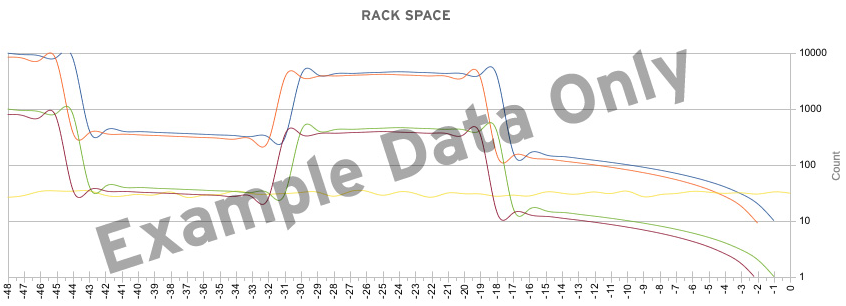
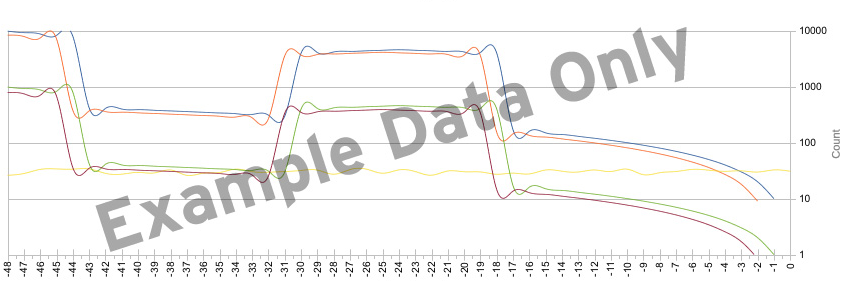
Dashboard placeholder page tweaks
- Graph table sizing -- make more compact to relate numbers to graphs better.
- Use the generic currency unit symbol for cost per hour.
- Add radiobuttons for dashboard mode on top
- Delete Rack Space label on the image
- Add a Statistics section with foobar graphs

Changed region(s): [[0.0, 0.0282, 1.0, 0.9577]]

diff --git a/src/app/stylesheets/aggregator.scss b/src/app/stylesheets/aggregator.scss
@@ -218,6 +218,8 @@ h5 { font-size: 80%; }
 .placeholder { margin-bottom: 2em; }
 .disabled { opacity: 0.6; }
 .nomargin { margin: 0; }
+.nowrap { white-space: nowrap; }
+.gap { margin-bottom: 4em; }
 
 div,section,fieldset {
   display: block;
@@ -257,7 +259,7 @@ table {
     }
   }
   td {
-    padding: 4px;
+    padding: 2px;
     vertical-align: top;
     min-height: 16px;
   }
@@ -274,7 +276,12 @@ table {
     }
     td {
       color: #888;
+      &.graph {
+        width: 102px;
+        height: 4em;
+      }
       .percentBlock {
+        display: block;
         border:1px solid #909090;
         padding: 0;
         width:100px;
@@ -291,13 +298,13 @@ table {
         background: url(/images/arrow-min.png) no-repeat top center;
         float:left;
         padding-top:5px;
-        width:50%;
+        width:50px;
       }
       .max {
         background: url(/images/arrow-max.png) no-repeat top center;
-        float:right;
+        float:left;
         padding-top:5px;
-        width:50%;
+        width:50px;
       }
     }
   }
@@ -975,6 +982,13 @@ footer {
 }
 
 /* PAGE SPECIFIC */
+
+/* DASHBOARD */
+
+.currency {
+  font-size: 180%;
+  line-height: 70%;
+}
 
 /* GRINDS */
 .status {

diff --git a/src/app/helpers/dashboard_helper.rb b/src/app/helpers/dashboard_helper.rb
@@ -24,7 +24,7 @@ module DashboardHelper
     name=content_tag 'td', :class => 'first nowrap' do
       name
     end
-    value=content_tag 'td' do
+    value=content_tag 'td', :class => 'graph' do
       content_tag 'div', :class => 'percentBlock' do
         value
       end
@@ -36,7 +36,7 @@ module DashboardHelper
   end
 
   def monitor_bar_value(value, opts={})
-    bar=content_tag 'td' do
+    bar=content_tag 'td', :class => "graph" do
       percent_block=content_tag 'div', :class => 'percentBlock' do
         # TODO: Count text-indent value correctly here
         bar_style = "width:#{value}%;text-indent:14%"
